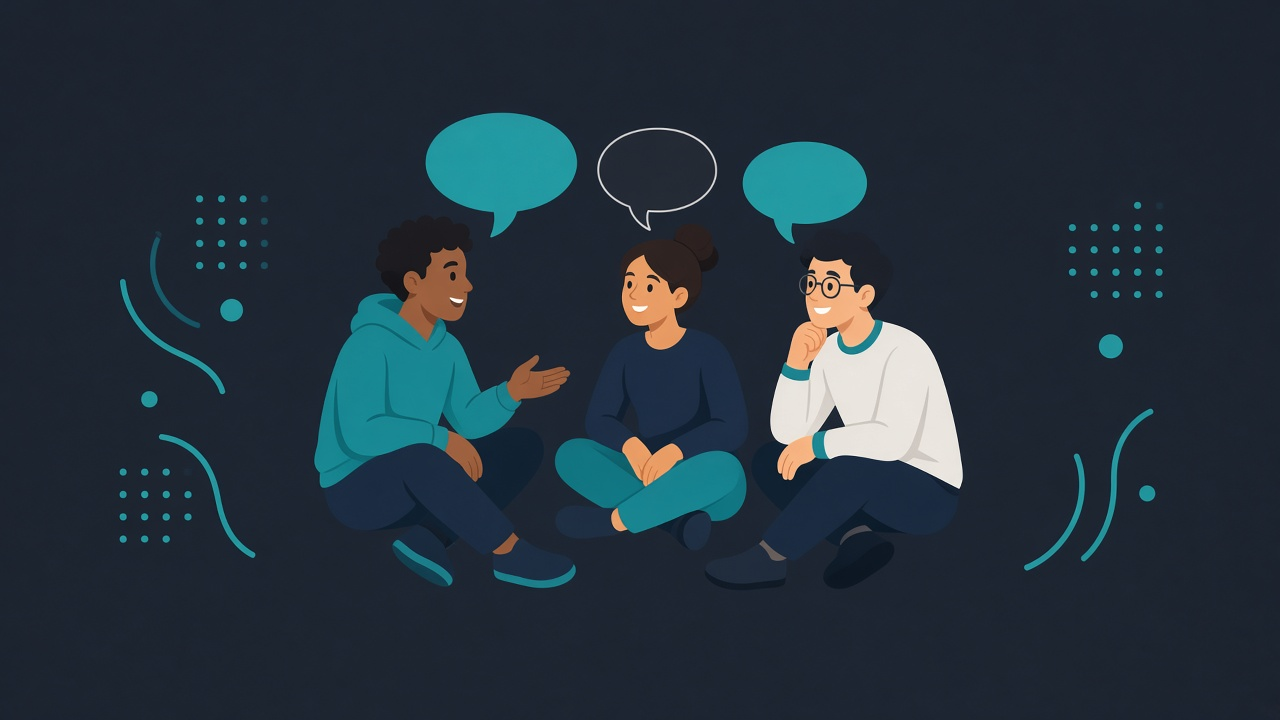
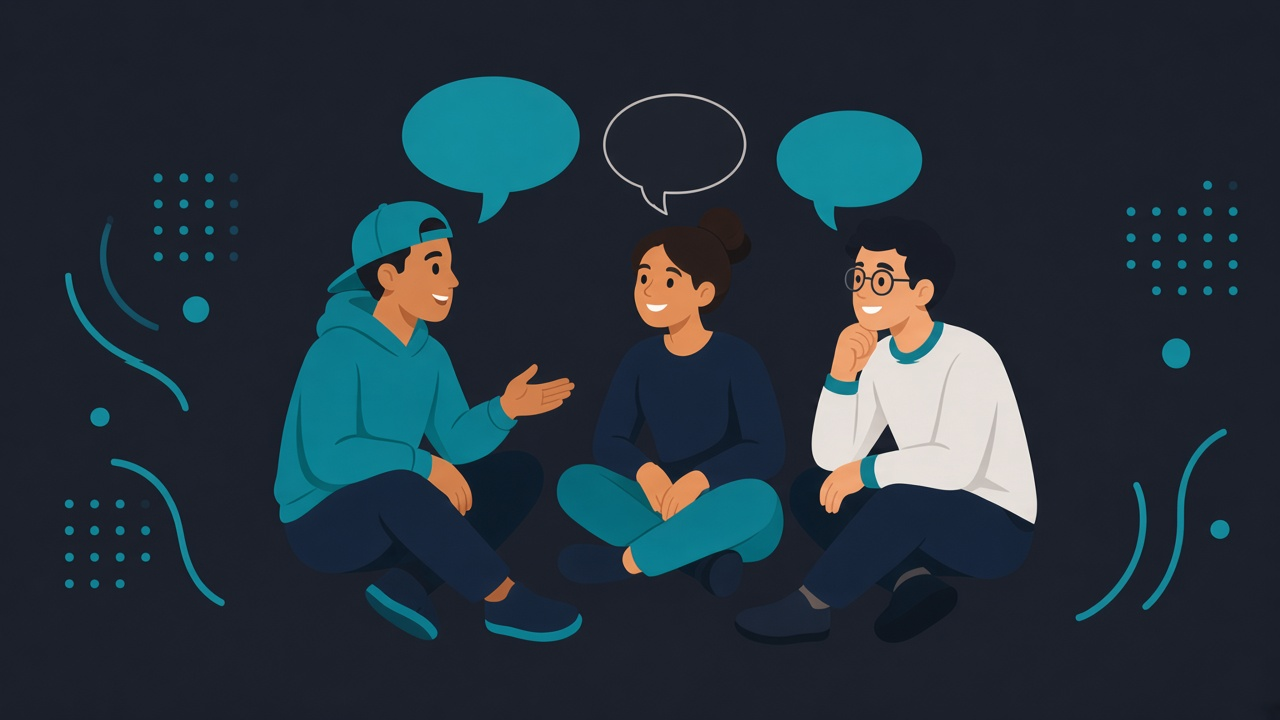
Replace the Community Discussions picture.
Swap in the supplied photo and bump only its cache-bust query. The other topic photos, account tiles, wording, and links stay the same.

diff --git a/forum.html b/forum.html
@@ -59,7 +59,7 @@ Recognition: PASTE_URL
             <p class="section-note">Each topic opens its own social link or one YouTube video.</p>
             <div class="features-grid">
                 <div class="feature-card" data-color="#06b6d4">
-                    <img class="feature-art" src="public/images/community/community-discussions.jpg?v=1" alt="" width="1280" height="720">
+                    <img class="feature-art" src="public/images/community/community-discussions.jpg?v=2" alt="" width="1280" height="720">
                     <h2 class="feature-title">Community Discussions</h2>
                     <button type="button" class="door-action" data-community-link="Community Discussions" disabled>Link not pasted yet</button>
                 </div>
